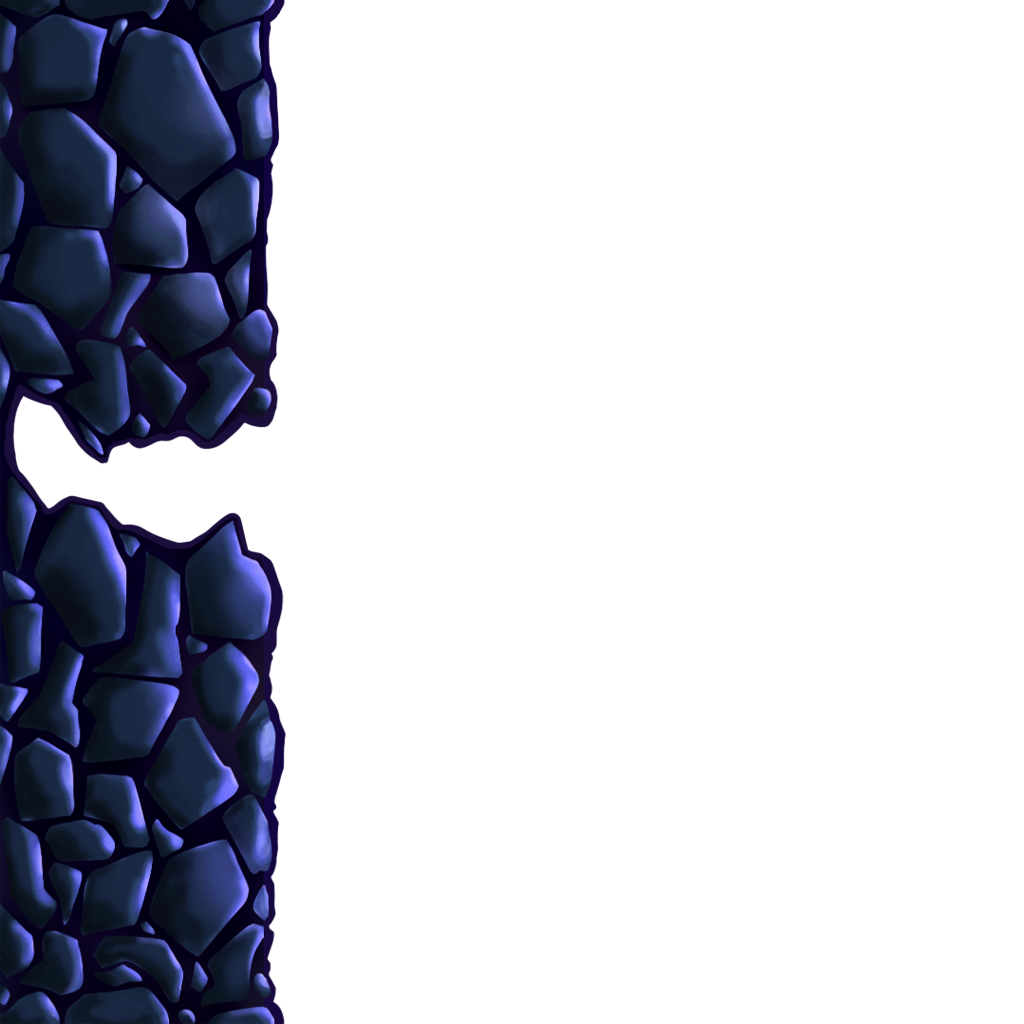
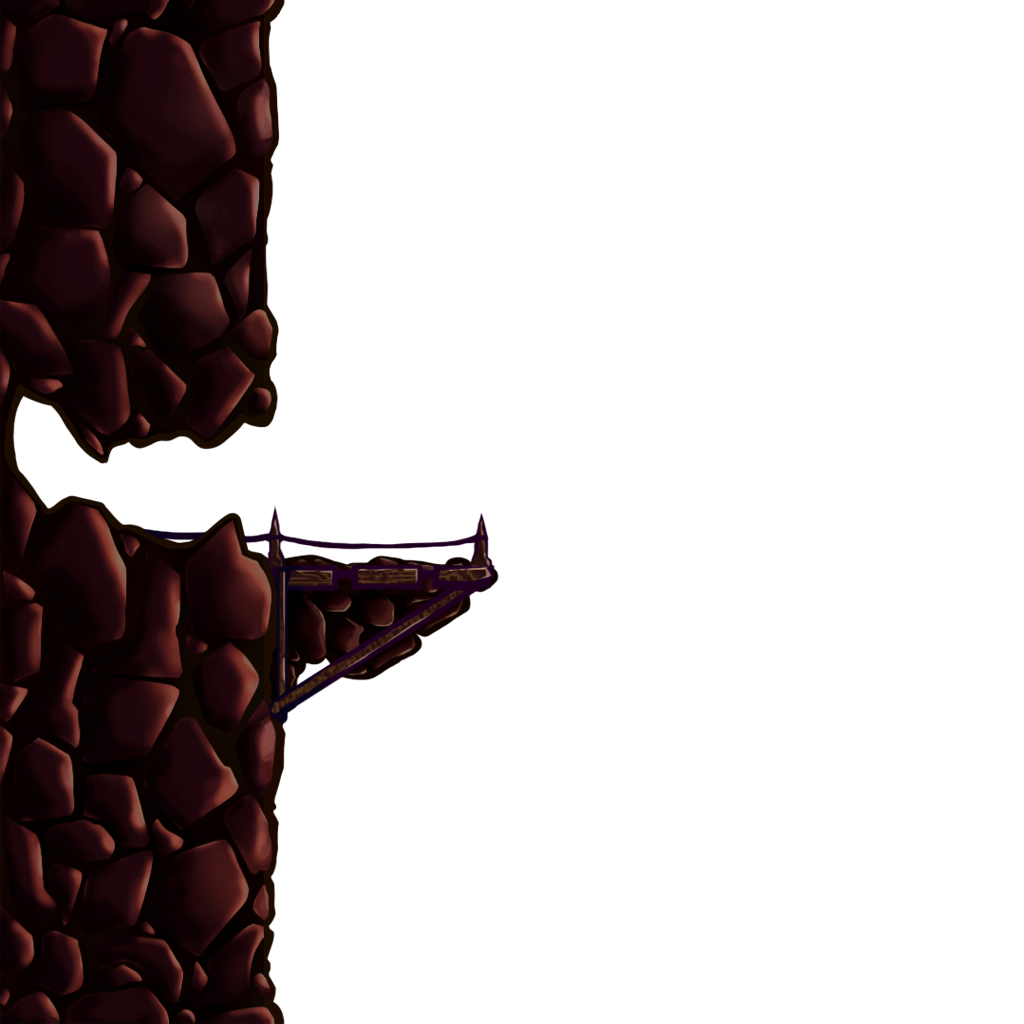
Extend InfiniteParallax script and implement "static" backdrop
[Environment]
+ Add Backdrop sprite
* Update new color version of Walls
    + Keep blue version as new alt version

[Scene: Game]
* Update Walls prefabs with new updated sprites
* Adjust player's prefab sorting layers
+ Integrate Backdrop and clean up few things

[Misc]
- Remove few debug logs
* Update .idea settings

Changed region(s): [[0.0, 0.0, 0.5, 1.0]]

diff --git a/Assets/Master/Scripts/Environment/InfiniteParallax.cs b/Assets/Master/Scripts/Environment/InfiniteParallax.cs
@@ -4,9 +4,19 @@ using UnityEngine;
 namespace Master.Scripts.Environment
 {
 
+    
     public class InfiniteParallax : MonoBehaviour
     {
+        private enum Mode { Single = 1, Multiple = 2 }
+
+        [SerializeField] private Mode _mode;
         [SerializeField] private float _factor = 1.0f;
+        
+        // Mode : Single
+
+        private SpriteRenderer _background;
+        
+        // Mode : Multiple
     
         private Transform _camera;
         private SpriteRenderer _sr1;
@@ -38,6 +48,8 @@ namespace Master.Scripts.Environment
                 return _sr3;
             }
         }
+        
+        // Common properties
 
         public bool CameraIsInMiddle => _camera.position.y > Lowest.transform.position.y && _camera.position.y < Highest.transform.position.y;
     
@@ -49,6 +61,45 @@ namespace Master.Scripts.Environment
                 throw new NullReferenceException("Camera.main access is null !");
 
             _camera = UnityEngine.Camera.main.transform;
+            
+            switch (_mode)
+            {
+                case Mode.Single:
+                    SetupSingleFollow();
+                    break;
+                case Mode.Multiple:
+                    SetupMultipleLayers();
+                    break;
+                default:
+                    throw new Exception($"Unknow {_mode.ToString()} mode at object {name}");
+            }
+        }
+
+        private void Update()
+        {
+            float cameraDelta = _camera.position.y - _previousCameraPosition;
+
+            switch (_mode)
+            {
+                case Mode.Multiple:
+                    MoveSprite(_sr1, cameraDelta);
+                    MoveSprite(_sr2, cameraDelta);
+                    MoveSprite(_sr3, cameraDelta);
+                    break;
+                case Mode.Single:
+                    MoveSprite(_background, cameraDelta);
+                    break;
+                default:
+                    throw new Exception($"Unknow {_mode.ToString()} mode at object {name}");
+            }
+        
+            _previousCameraPosition = _camera.position.y;
+        }
+        
+        // Setup //
+
+        private void SetupMultipleLayers()
+        {
             _sr1 = transform.GetChild(0).GetComponent<SpriteRenderer>();
             _sr2 = transform.GetChild(1).GetComponent<SpriteRenderer>();
             _sr3 = transform.GetChild(2).GetComponent<SpriteRenderer>();
@@ -56,16 +107,12 @@ namespace Master.Scripts.Environment
             SetInitialPositions();
         }
 
-        private void Update()
+        private void SetupSingleFollow()
         {
-            float cameraDelta = _camera.position.y - _previousCameraPosition;
-
-            MoveSprite(_sr1, cameraDelta);
-            MoveSprite(_sr2, cameraDelta);
-            MoveSprite(_sr3, cameraDelta);
-        
-            _previousCameraPosition = _camera.position.y;
+            _background = transform.GetChild(0).GetComponent<SpriteRenderer>();
         }
+        
+        // Methods //
     
         private void SetInitialPositions()
         {
@@ -89,12 +136,14 @@ namespace Master.Scripts.Environment
             if (sr == Highest)
             {
                 srToMove = Lowest;
-                srToMove.transform.position = Highest.transform.position + new Vector3(0, SpriteHeight, 0);
+                Debug.Log($"Should reposition {srToMove.name}");
+                // srToMove.transform.position = Highest.transform.position + new Vector3(0, SpriteHeight, 0);
             }
             else if (sr == Lowest)
             {
                 srToMove = Highest;
-                srToMove.transform.position = Lowest.transform.position - new Vector3(0, SpriteHeight, 0);
+                Debug.Log($"Should reposition {srToMove.name}");
+                // srToMove.transform.position = Lowest.transform.position - new Vector3(0, SpriteHeight, 0);
             }
         }
     }

diff --git a/Assets/Master/Scripts/Enemy/Enemy.cs b/Assets/Master/Scripts/Enemy/Enemy.cs
@@ -83,7 +83,6 @@ namespace Master.Scripts.Enemy
 
         private void OnTriggerEnter2D(Collider2D other)
         {
-            Debug.Log($">> Enemy {gameObject.name} triggered with tagged object : {other.tag}");
             switch (other.tag)
             {
                 case "Player":

diff --git a/Assets/Master/Scripts/Player/Player.cs b/Assets/Master/Scripts/Player/Player.cs
@@ -171,8 +171,6 @@ namespace Master.Scripts.Player
 
         private void DealDamage(DmgType type, EnemyComponent enemy)
         {
-            Debug.Log($"Enemy {enemy.gameObject.name} took damages");
-
             switch (type)
             {
                 case DmgType.Dash:
